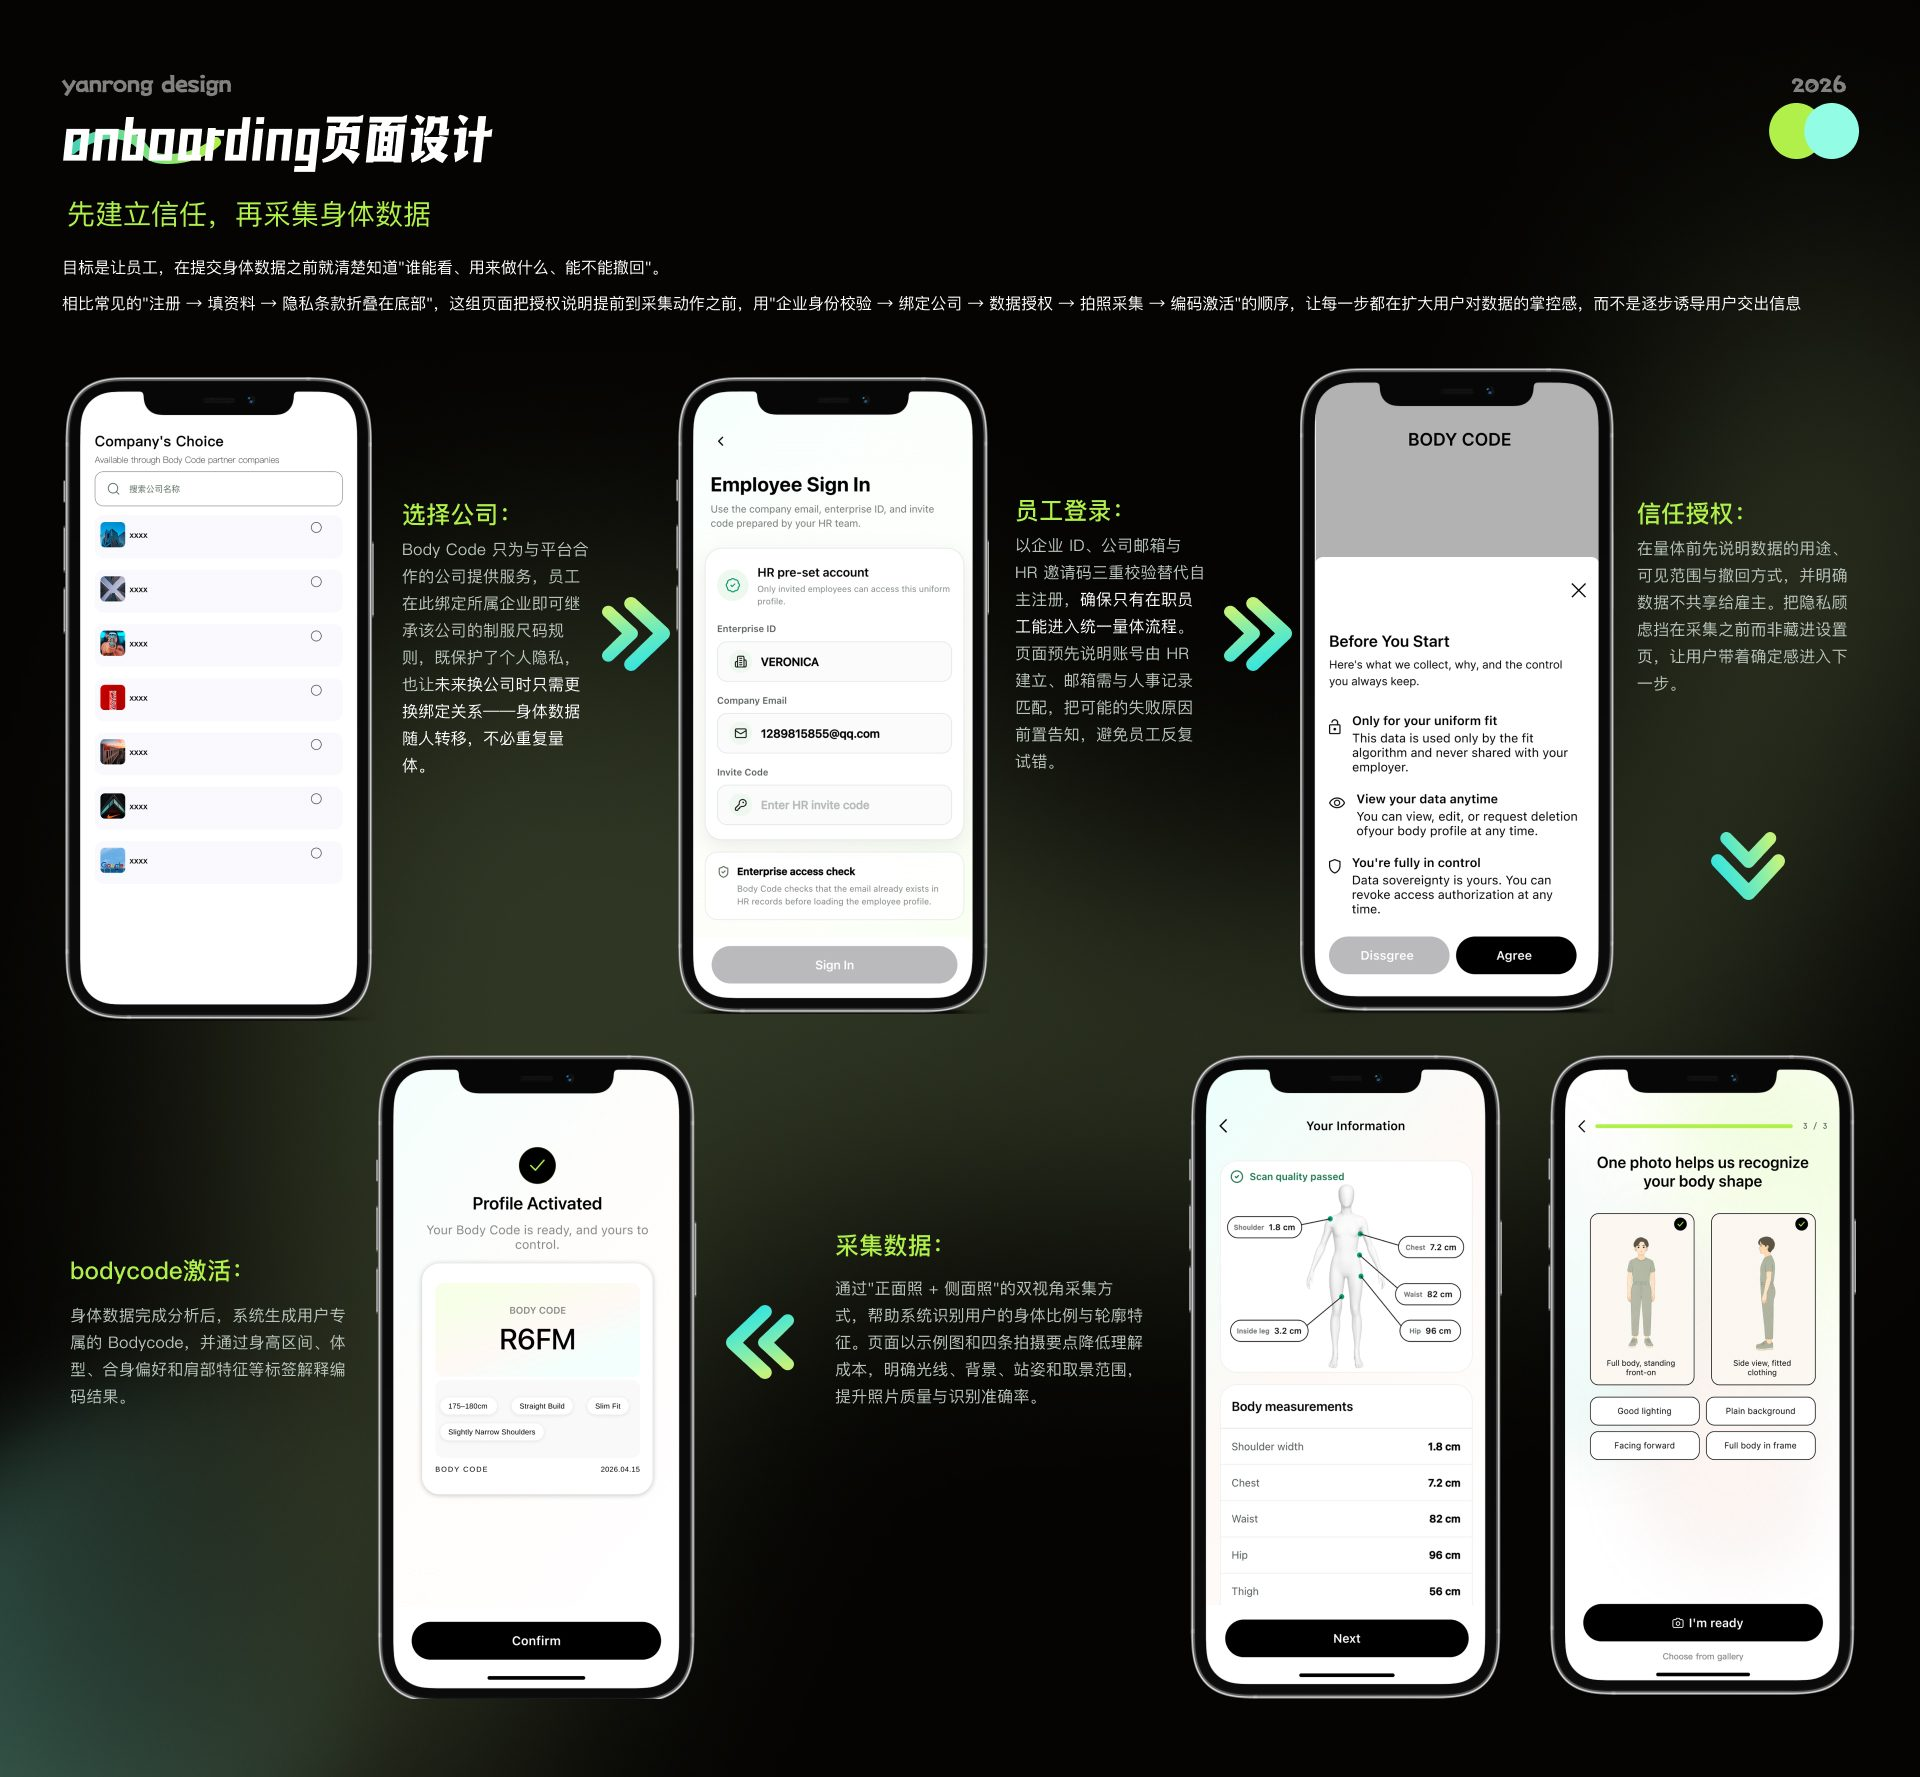
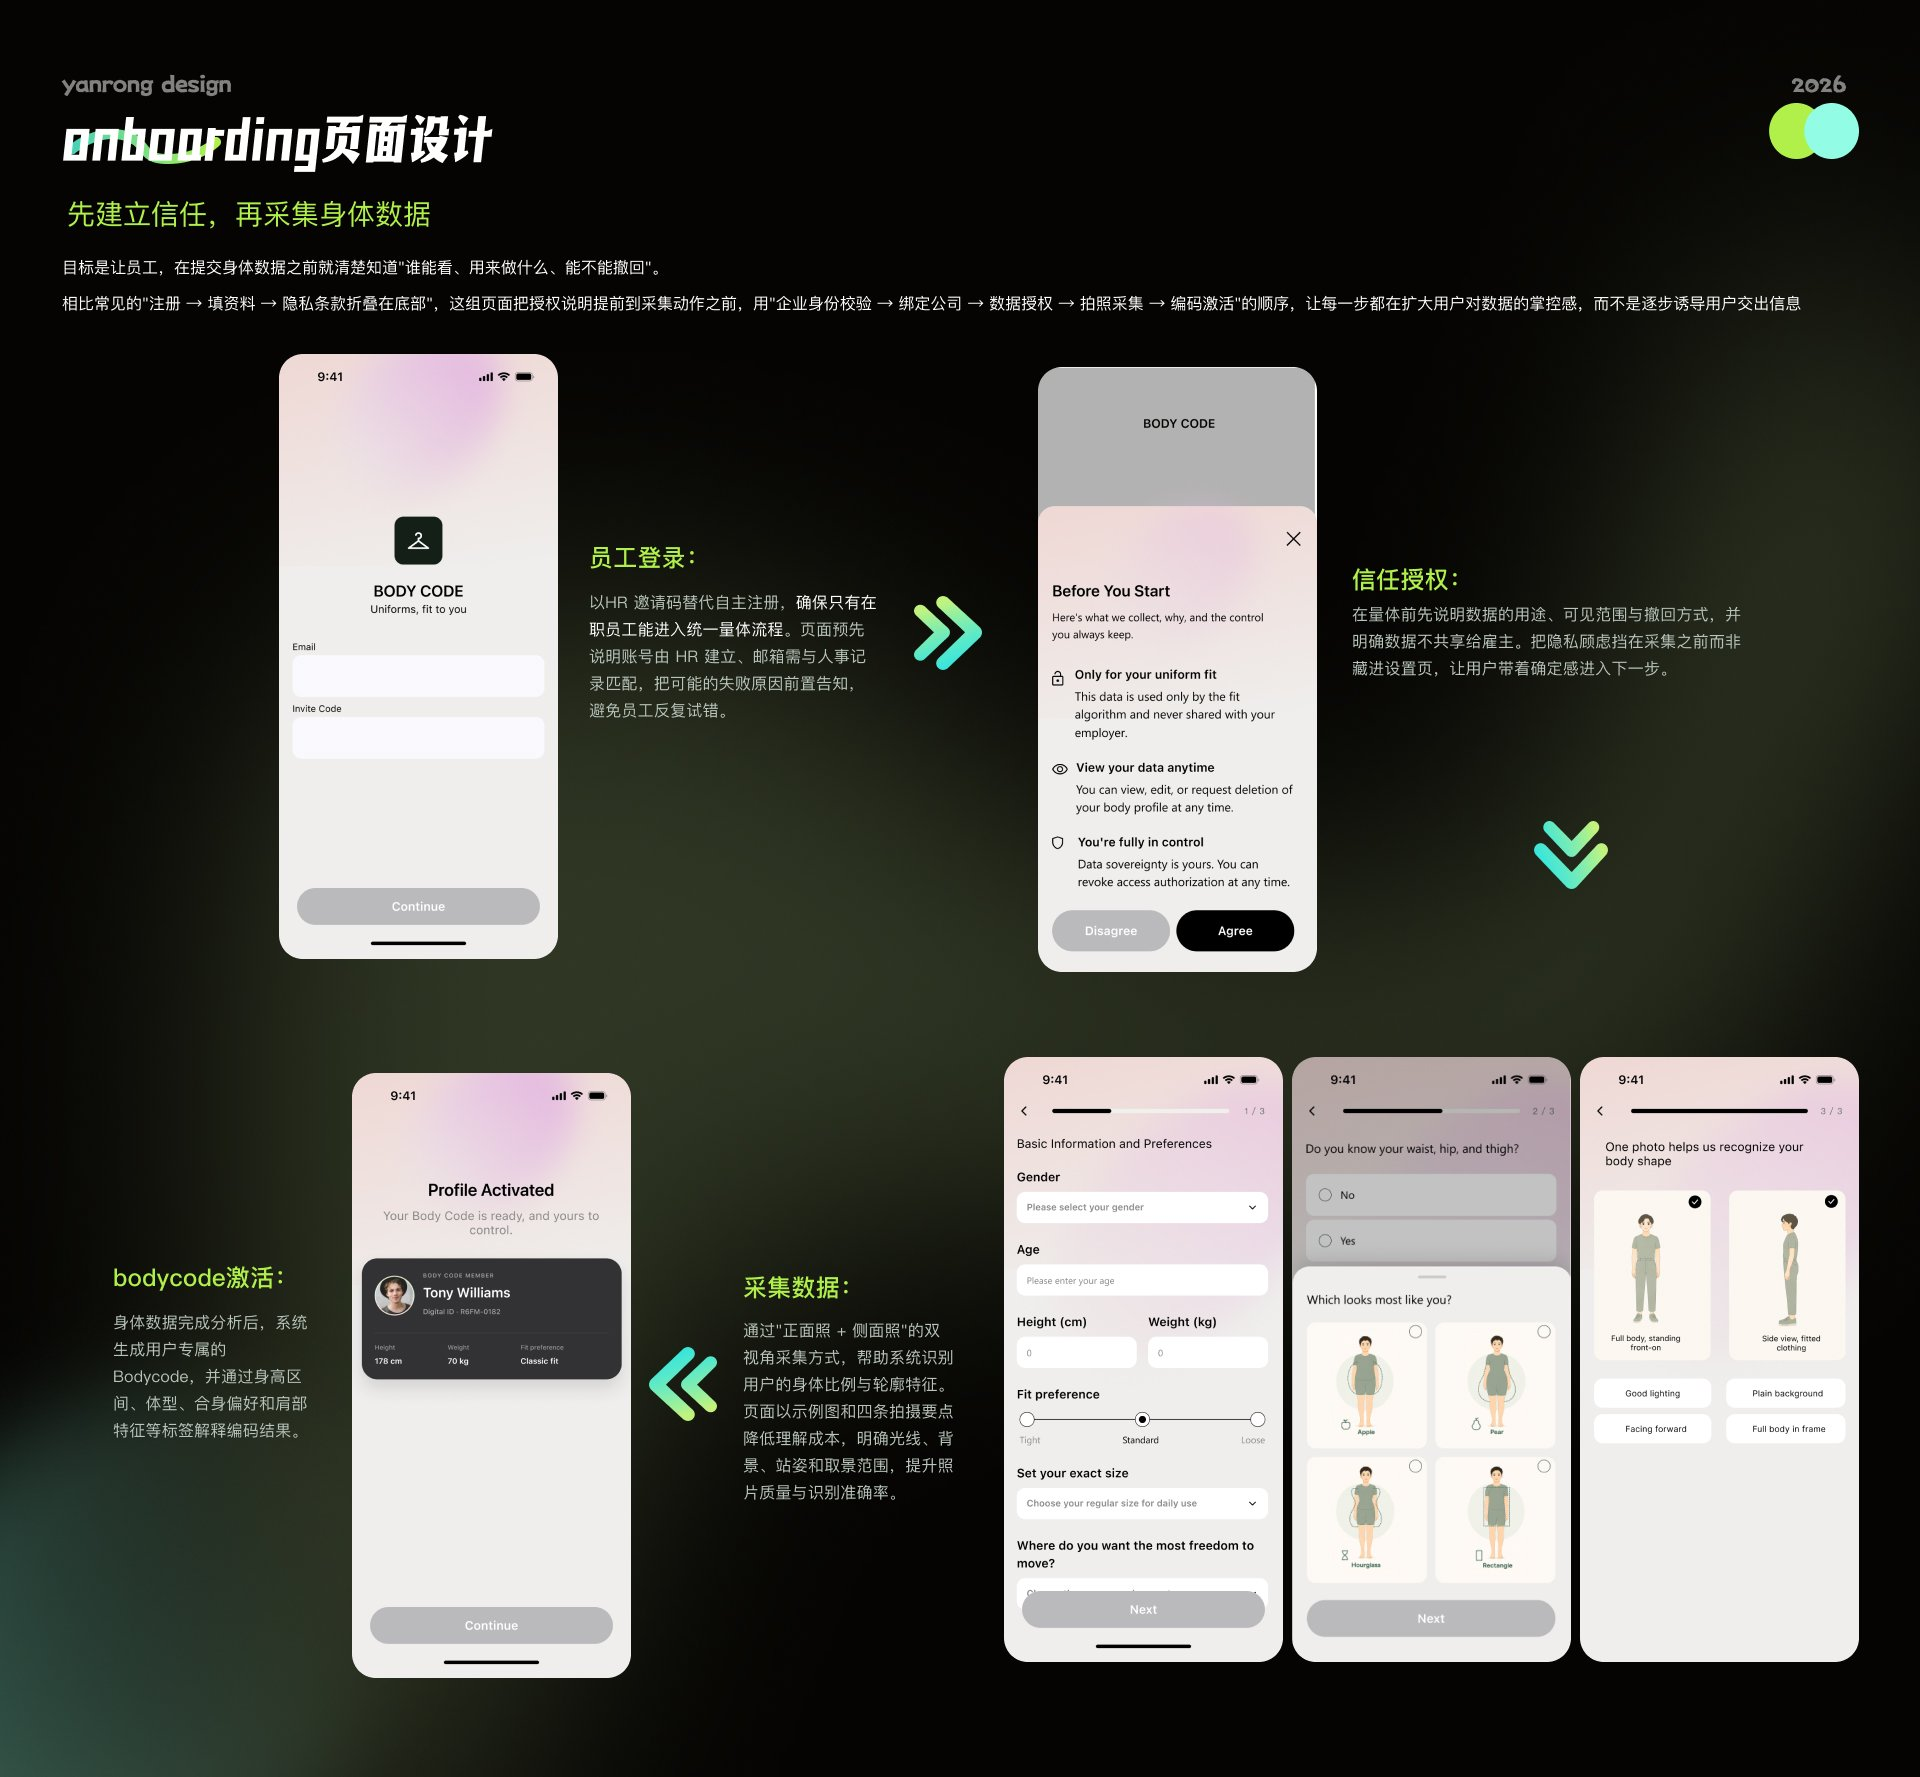
Update Body Code case study pages 01-02 and 10-17 with the redesign

diff --git a/project-bodycode.html b/project-bodycode.html
@@ -51,8 +51,8 @@
   <main class="detail-main">
     <!-- Detail page images, stacked top to bottom -->
     <div class="detail-pages">
-      <img src="src/projects/bodycode/01.jpg?v=2" alt="Bodycode App 封面" width="1920" height="1080" style="view-transition-name: bodycode-cover" />
-      <img src="src/projects/bodycode/02.jpg" alt="项目背景" width="1920" height="1132" decoding="async" />
+      <img src="src/projects/bodycode/01.jpg?v=3" alt="Bodycode App 封面" width="1920" height="1080" style="view-transition-name: bodycode-cover" />
+      <img src="src/projects/bodycode/02.jpg?v=3" alt="项目背景" width="1920" height="1132" decoding="async" />
       <img src="src/projects/bodycode/03.jpg" alt="问题分析" width="1920" height="1080" loading="lazy" decoding="async" />
       <img src="src/projects/bodycode/04.jpg" alt="市场分析" width="1920" height="1080" loading="lazy" decoding="async" />
       <img src="src/projects/bodycode/05.jpg" alt="竞品分析" width="1920" height="1637" loading="lazy" decoding="async" />
@@ -60,14 +60,14 @@
       <img src="src/projects/bodycode/07.jpg" alt="用户分析" width="1920" height="3456" loading="lazy" decoding="async" />
       <img src="src/projects/bodycode/08.jpg" alt="设计策略与目标推导" width="1920" height="1080" loading="lazy" decoding="async" />
       <img src="src/projects/bodycode/09.jpg" alt="信息架构" width="1920" height="4153" loading="lazy" decoding="async" />
-      <img src="src/projects/bodycode/10.jpg" alt="设计风格" width="1920" height="2108" loading="lazy" decoding="async" />
-      <img src="src/projects/bodycode/11.jpg" alt="Onboarding 页面设计" width="1920" height="1777" loading="lazy" decoding="async" />
-      <img src="src/projects/bodycode/12.jpg?v=2" alt="首页设计" width="1920" height="1080" loading="lazy" decoding="async" />
-      <img src="src/projects/bodycode/13.jpg" alt="匹配页面设计" width="1920" height="2132" loading="lazy" decoding="async" />
-      <img src="src/projects/bodycode/14.jpg" alt="争议页面设计" width="1920" height="2306" loading="lazy" decoding="async" />
-      <img src="src/projects/bodycode/15.jpg" alt="My Bodycode 页面设计" width="1920" height="2200" loading="lazy" decoding="async" />
-      <img src="src/projects/bodycode/16.jpg" alt="Account 页面设计" width="1920" height="1962" loading="lazy" decoding="async" />
-      <img src="src/projects/bodycode/17.jpg" alt="样机展示" width="1920" height="1962" loading="lazy" decoding="async" />
+      <img src="src/projects/bodycode/10.jpg?v=3" alt="设计风格" width="1920" height="2108" loading="lazy" decoding="async" />
+      <img src="src/projects/bodycode/11.jpg?v=3" alt="Onboarding 页面设计" width="1920" height="1777" loading="lazy" decoding="async" />
+      <img src="src/projects/bodycode/12.jpg?v=3" alt="首页设计" width="1920" height="1080" loading="lazy" decoding="async" />
+      <img src="src/projects/bodycode/13.jpg?v=3" alt="匹配页面设计" width="1920" height="2132" loading="lazy" decoding="async" />
+      <img src="src/projects/bodycode/14.jpg?v=3" alt="争议页面设计" width="1920" height="2306" loading="lazy" decoding="async" />
+      <img src="src/projects/bodycode/15.jpg?v=3" alt="My Bodycode 页面设计" width="1920" height="2200" loading="lazy" decoding="async" />
+      <img src="src/projects/bodycode/16.jpg?v=3" alt="Account 页面设计" width="1920" height="1962" loading="lazy" decoding="async" />
+      <img src="src/projects/bodycode/17.jpg?v=3" alt="样机展示" width="1920" height="1962" loading="lazy" decoding="async" />
     </div>
 
     <div class="detail-end">

diff --git a/index.html b/index.html
@@ -18,7 +18,7 @@
   <link rel="stylesheet" href="https://unpkg.com/aos@next/dist/aos.css" />
   <!-- stylesheet -->
   <link rel="stylesheet" href="style.css?v=39" />
-  <link rel="prefetch" href="src/projects/bodycode/01.jpg?v=2" as="image" />
+  <link rel="prefetch" href="src/projects/bodycode/01.jpg?v=3" as="image" />
   <link rel="prefetch" href="src/projects/bodycode-admin/01.jpg?v=2" as="image" />
   <link rel="prefetch" href="src/projects/grow/01.jpg?v=2" as="image" />
   <link rel="prefetch" href="src/projects/sugo/01.jpg" as="image" />
